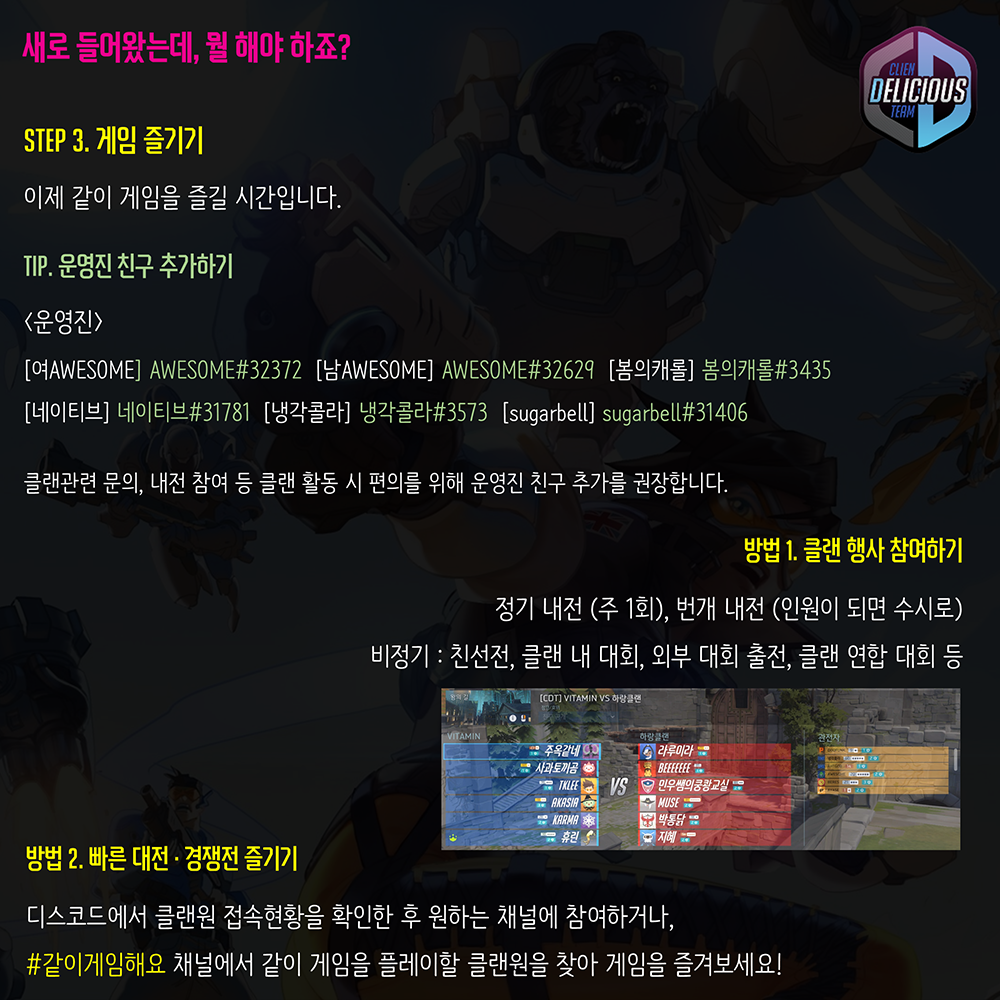
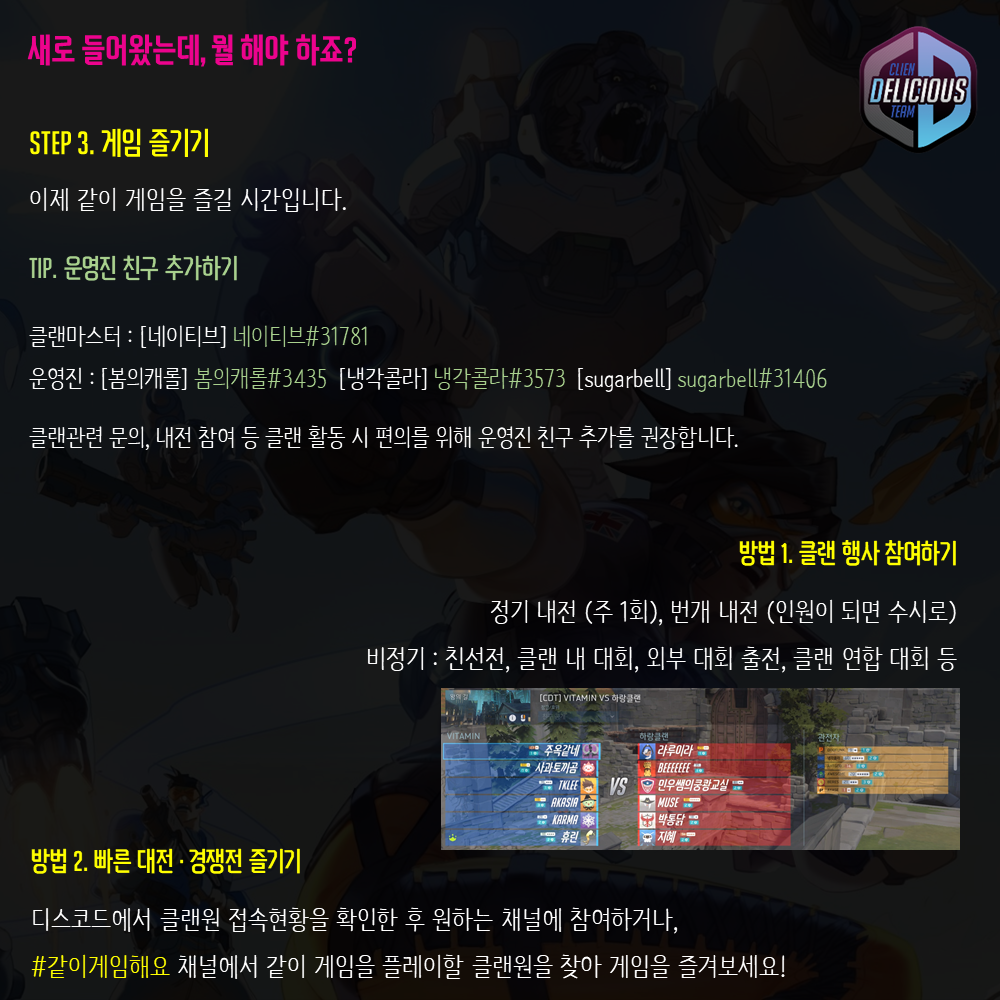
운영진 변경

diff --git a/Athena/System/CBotClient.cs b/Athena/System/CBotClient.cs
@@ -832,10 +832,8 @@ namespace Athena
                     strInfo += "\n";
                     strInfo += "클랜 생활에 불편하신 점이 있으시거나\n";
                     strInfo += "건의사항, 문의사항이 있으실 때는\n";
-                    strInfo += "(남)AWESOME(@leek603),\n";
-                    strInfo += "(여)AWESOME(@AWESOMEYUU),\n";
-                    strInfo += "봄의캐롤(@rsmini),\n";
                     strInfo += "네이티브(@nativehyun)\n";
+                    strInfo += "봄의캐롤(@rsmini),\n";
                     strInfo += "냉각콜라(@Seungman),\n";
                     strInfo += "Sugar Belle(@sugarbell) 에게\n";
                     strInfo += "문의해주세요.\n\n";
